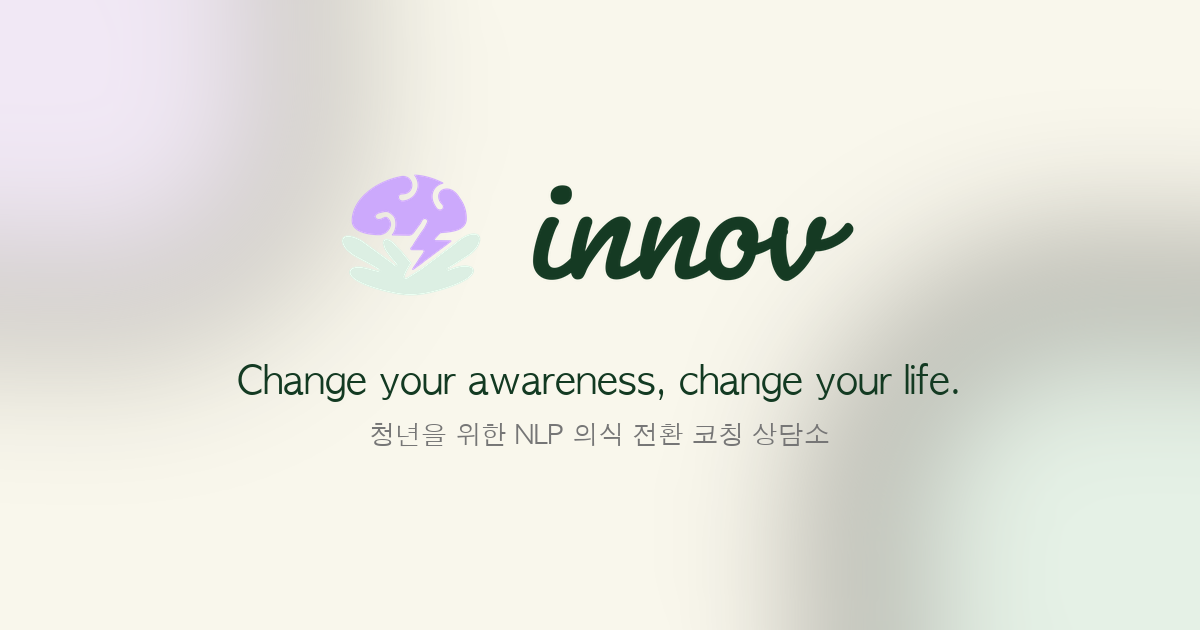
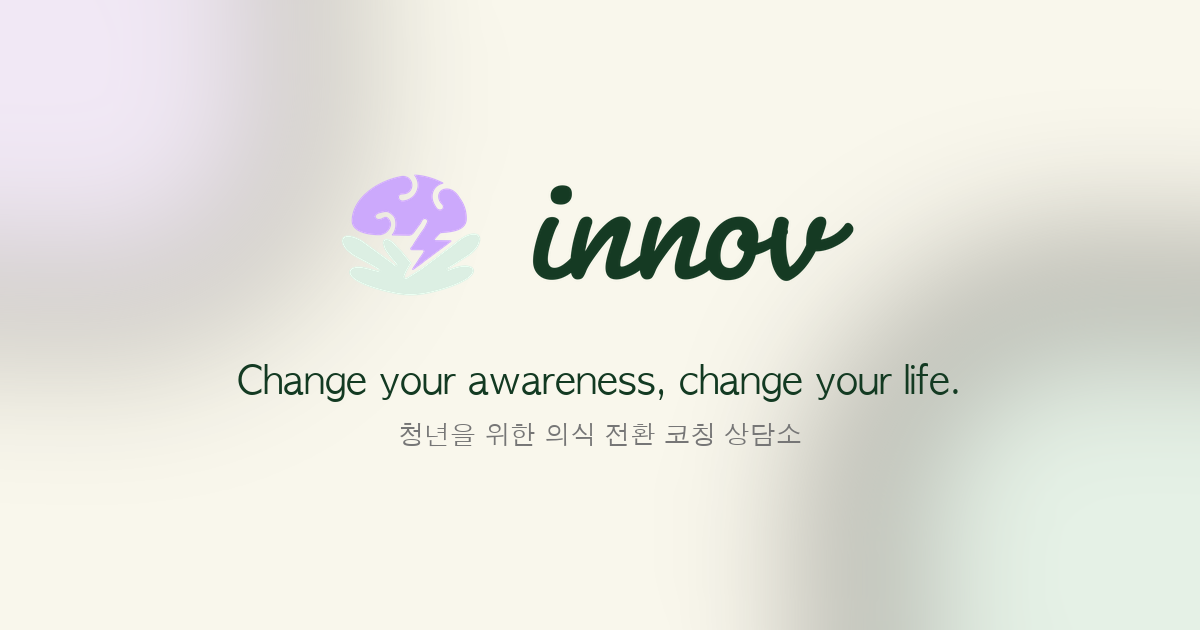
Remove 'NLP' from OG image and meta tags
- og-image.png 슬로건: '청년을 위한 NLP 의식 전환 코칭 상담소' → '청년을 위한 의식 전환 코칭 상담소'
- 각 페이지의 og:title, og:description, twitter:*, description 메타 태그에서 NLP 단어 제거
- 본문 내용(코치 자격증 표시 등)의 NLP는 그대로 유지

Changed region(s): [[0.3083, 0.6635, 0.6783, 0.7238]]

diff --git a/index.html b/index.html
@@ -8,18 +8,18 @@
 <!-- Open Graph / Twitter Card -->
 <meta property="og:type" content="website">
 <meta property="og:site_name" content="INNOV">
-<meta property="og:title" content="INNOV | 청년을 위한 NLP 의식 전환 코칭 상담소">
-<meta property="og:description" content="한 번의 대화가 10년의 방향을 바꿉니다. 청년의 내면을 설계하는 NLP 코칭 — REFRAME으로 사고를 바꾸고, BUILD-UP으로 일상을 다시 세웁니다.">
+<meta property="og:title" content="INNOV | 청년을 위한 의식 전환 코칭 상담소">
+<meta property="og:description" content="한 번의 대화가 10년의 방향을 바꿉니다. 청년의 내면을 설계하는 코칭 — REFRAME으로 사고를 바꾸고, BUILD-UP으로 일상을 다시 세웁니다.">
 <meta property="og:url" content="https://innov-me.co.kr/">
 <meta property="og:image" content="https://innov-me.co.kr/og-image.png">
 <meta property="og:image:width" content="1200">
 <meta property="og:image:height" content="630">
 <meta property="og:locale" content="ko_KR">
 <meta name="twitter:card" content="summary_large_image">
-<meta name="twitter:title" content="INNOV | 청년을 위한 NLP 의식 전환 코칭 상담소">
-<meta name="twitter:description" content="한 번의 대화가 10년의 방향을 바꿉니다. 청년의 내면을 설계하는 NLP 코칭 — REFRAME으로 사고를 바꾸고, BUILD-UP으로 일상을 다시 세웁니다.">
+<meta name="twitter:title" content="INNOV | 청년을 위한 의식 전환 코칭 상담소">
+<meta name="twitter:description" content="한 번의 대화가 10년의 방향을 바꿉니다. 청년의 내면을 설계하는 코칭 — REFRAME으로 사고를 바꾸고, BUILD-UP으로 일상을 다시 세웁니다.">
 <meta name="twitter:image" content="https://innov-me.co.kr/og-image.png">
-<meta name="description" content="한 번의 대화가 10년의 방향을 바꿉니다. 청년의 내면을 설계하는 NLP 코칭 — REFRAME으로 사고를 바꾸고, BUILD-UP으로 일상을 다시 세웁니다.">
+<meta name="description" content="한 번의 대화가 10년의 방향을 바꿉니다. 청년의 내면을 설계하는 코칭 — REFRAME으로 사고를 바꾸고, BUILD-UP으로 일상을 다시 세웁니다.">
 
 
 <!-- Shared Navigation -->

diff --git a/page-counselors.html b/page-counselors.html
@@ -9,18 +9,18 @@
 <!-- Open Graph / Twitter Card -->
 <meta property="og:type" content="website">
 <meta property="og:site_name" content="INNOV">
-<meta property="og:title" content="INNOV 코치진 | NLP 전문 청년 멘탈 코칭">
-<meta property="og:description" content="NLP 자격 코치진이 1:1 집중 코칭으로 사고와 감정의 알고리즘을 함께 해독합니다.">
+<meta property="og:title" content="INNOV 코치진 | 전문 청년 멘탈 코칭">
+<meta property="og:description" content="자격 코치진이 1:1 집중 코칭으로 사고와 감정의 알고리즘을 함께 해독합니다.">
 <meta property="og:url" content="https://innov-me.co.kr/page-counselors.html">
 <meta property="og:image" content="https://innov-me.co.kr/og-image.png">
 <meta property="og:image:width" content="1200">
 <meta property="og:image:height" content="630">
 <meta property="og:locale" content="ko_KR">
 <meta name="twitter:card" content="summary_large_image">
-<meta name="twitter:title" content="INNOV 코치진 | NLP 전문 청년 멘탈 코칭">
-<meta name="twitter:description" content="NLP 자격 코치진이 1:1 집중 코칭으로 사고와 감정의 알고리즘을 함께 해독합니다.">
+<meta name="twitter:title" content="INNOV 코치진 | 전문 청년 멘탈 코칭">
+<meta name="twitter:description" content="자격 코치진이 1:1 집중 코칭으로 사고와 감정의 알고리즘을 함께 해독합니다.">
 <meta name="twitter:image" content="https://innov-me.co.kr/og-image.png">
-<meta name="description" content="NLP 자격 코치진이 1:1 집중 코칭으로 사고와 감정의 알고리즘을 함께 해독합니다.">
+<meta name="description" content="자격 코치진이 1:1 집중 코칭으로 사고와 감정의 알고리즘을 함께 해독합니다.">
 
 
   <!-- Shared Navigation -->

diff --git a/page-about.html b/page-about.html
@@ -9,7 +9,7 @@
 <meta property="og:type" content="website">
 <meta property="og:site_name" content="INNOV">
 <meta property="og:title" content="INNOV 소개 — 의식 전환 코칭 상담소">
-<meta property="og:description" content="청년의 내면을 설계하는 실전형 NLP 코칭 상담소 INNOV. 보이지 않는 내면의 구조를 시각화하여 실질적인 삶의 변화를 만듭니다.">
+<meta property="og:description" content="청년의 내면을 설계하는 실전형 코칭 상담소 INNOV. 보이지 않는 내면의 구조를 시각화하여 실질적인 삶의 변화를 만듭니다.">
 <meta property="og:url" content="https://innov-me.co.kr/page-about.html">
 <meta property="og:image" content="https://innov-me.co.kr/og-image.png">
 <meta property="og:image:width" content="1200">
@@ -17,9 +17,9 @@
 <meta property="og:locale" content="ko_KR">
 <meta name="twitter:card" content="summary_large_image">
 <meta name="twitter:title" content="INNOV 소개 — 의식 전환 코칭 상담소">
-<meta name="twitter:description" content="청년의 내면을 설계하는 실전형 NLP 코칭 상담소 INNOV. 보이지 않는 내면의 구조를 시각화하여 실질적인 삶의 변화를 만듭니다.">
+<meta name="twitter:description" content="청년의 내면을 설계하는 실전형 코칭 상담소 INNOV. 보이지 않는 내면의 구조를 시각화하여 실질적인 삶의 변화를 만듭니다.">
 <meta name="twitter:image" content="https://innov-me.co.kr/og-image.png">
-<meta name="description" content="청년의 내면을 설계하는 실전형 NLP 코칭 상담소 INNOV. 보이지 않는 내면의 구조를 시각화하여 실질적인 삶의 변화를 만듭니다.">
+<meta name="description" content="청년의 내면을 설계하는 실전형 코칭 상담소 INNOV. 보이지 않는 내면의 구조를 시각화하여 실질적인 삶의 변화를 만듭니다.">
 
 
 <!-- Shared Navigation -->

diff --git a/page-apply.html b/page-apply.html
@@ -9,7 +9,7 @@
 <meta property="og:type" content="website">
 <meta property="og:site_name" content="INNOV">
 <meta property="og:title" content="INNOV 상담 신청 | REFRAME · BUILD-UP">
-<meta property="og:description" content="무료 사전 상담부터 정규 프로그램까지. INNOV의 NLP 의식 전환 코칭을 신청하세요.">
+<meta property="og:description" content="무료 사전 상담부터 정규 프로그램까지. INNOV의 의식 전환 코칭을 신청하세요.">
 <meta property="og:url" content="https://innov-me.co.kr/page-apply.html">
 <meta property="og:image" content="https://innov-me.co.kr/og-image.png">
 <meta property="og:image:width" content="1200">
@@ -17,9 +17,9 @@
 <meta property="og:locale" content="ko_KR">
 <meta name="twitter:card" content="summary_large_image">
 <meta name="twitter:title" content="INNOV 상담 신청 | REFRAME · BUILD-UP">
-<meta name="twitter:description" content="무료 사전 상담부터 정규 프로그램까지. INNOV의 NLP 의식 전환 코칭을 신청하세요.">
+<meta name="twitter:description" content="무료 사전 상담부터 정규 프로그램까지. INNOV의 의식 전환 코칭을 신청하세요.">
 <meta name="twitter:image" content="https://innov-me.co.kr/og-image.png">
-<meta name="description" content="무료 사전 상담부터 정규 프로그램까지. INNOV의 NLP 의식 전환 코칭을 신청하세요.">
+<meta name="description" content="무료 사전 상담부터 정규 프로그램까지. INNOV의 의식 전환 코칭을 신청하세요.">
 
 
 <!-- Shared Navigation -->